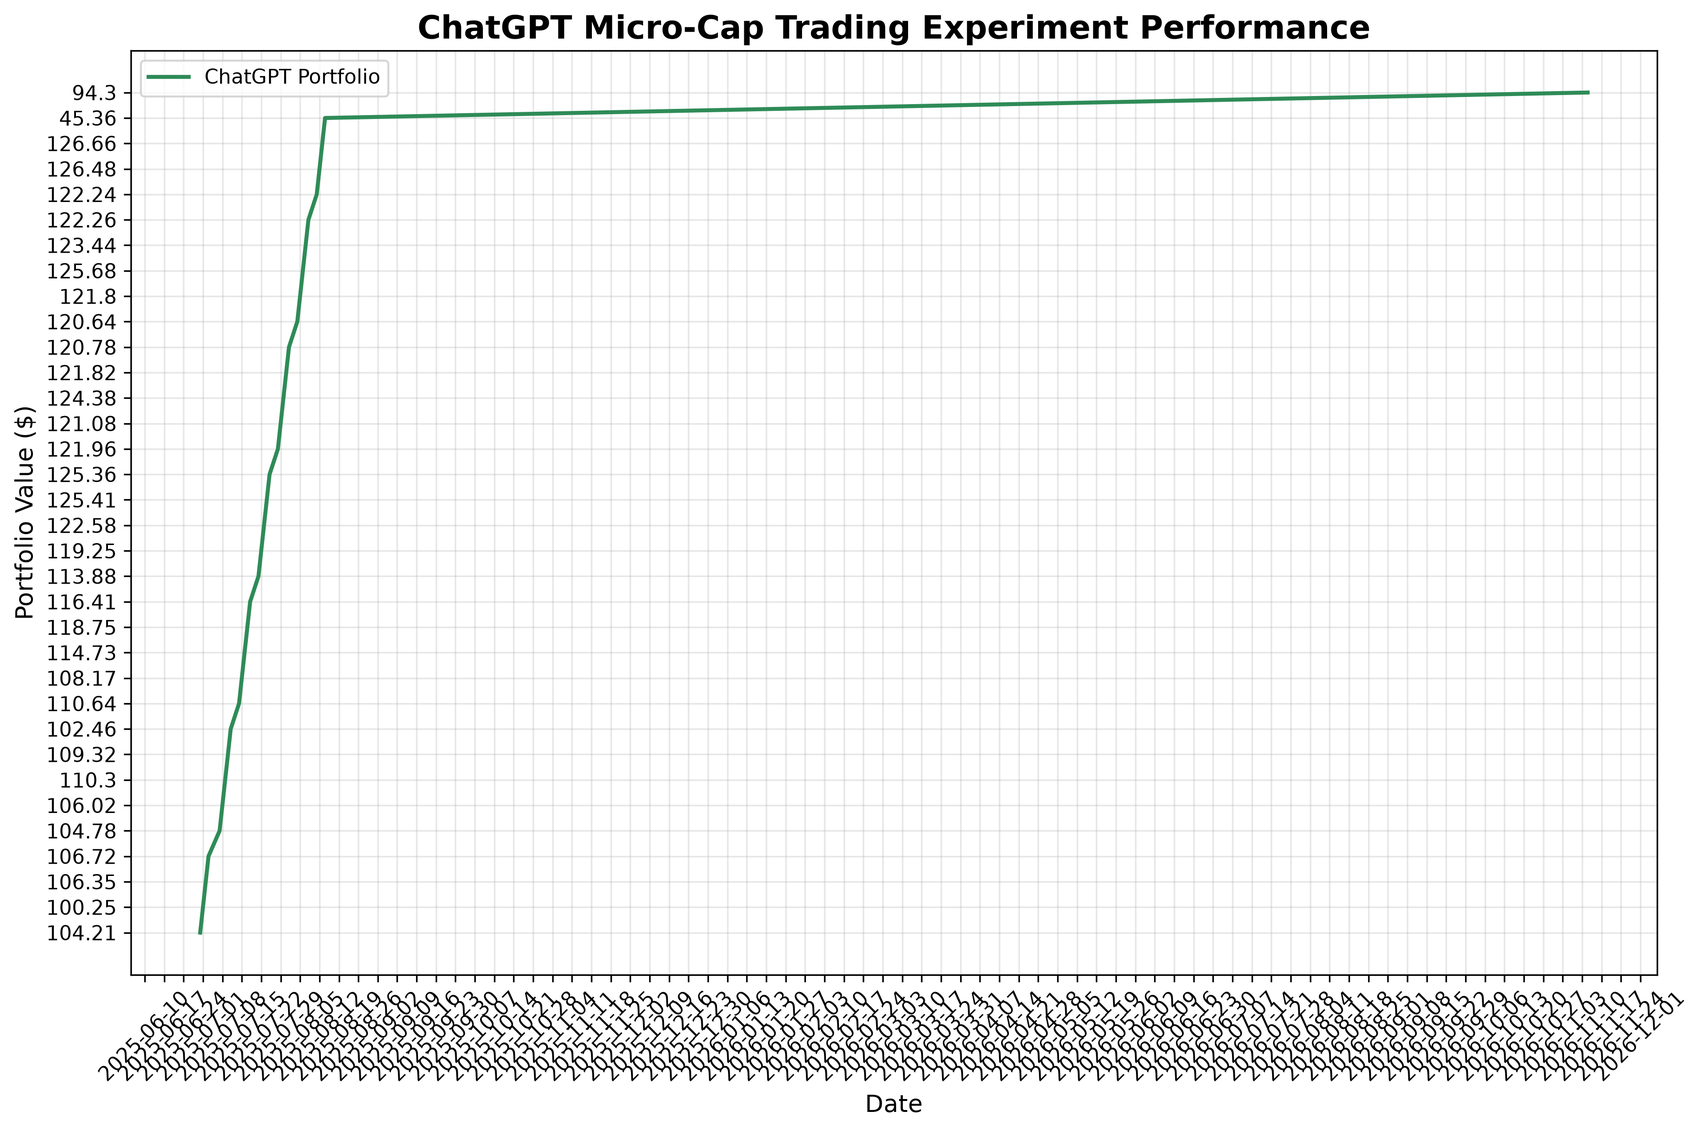
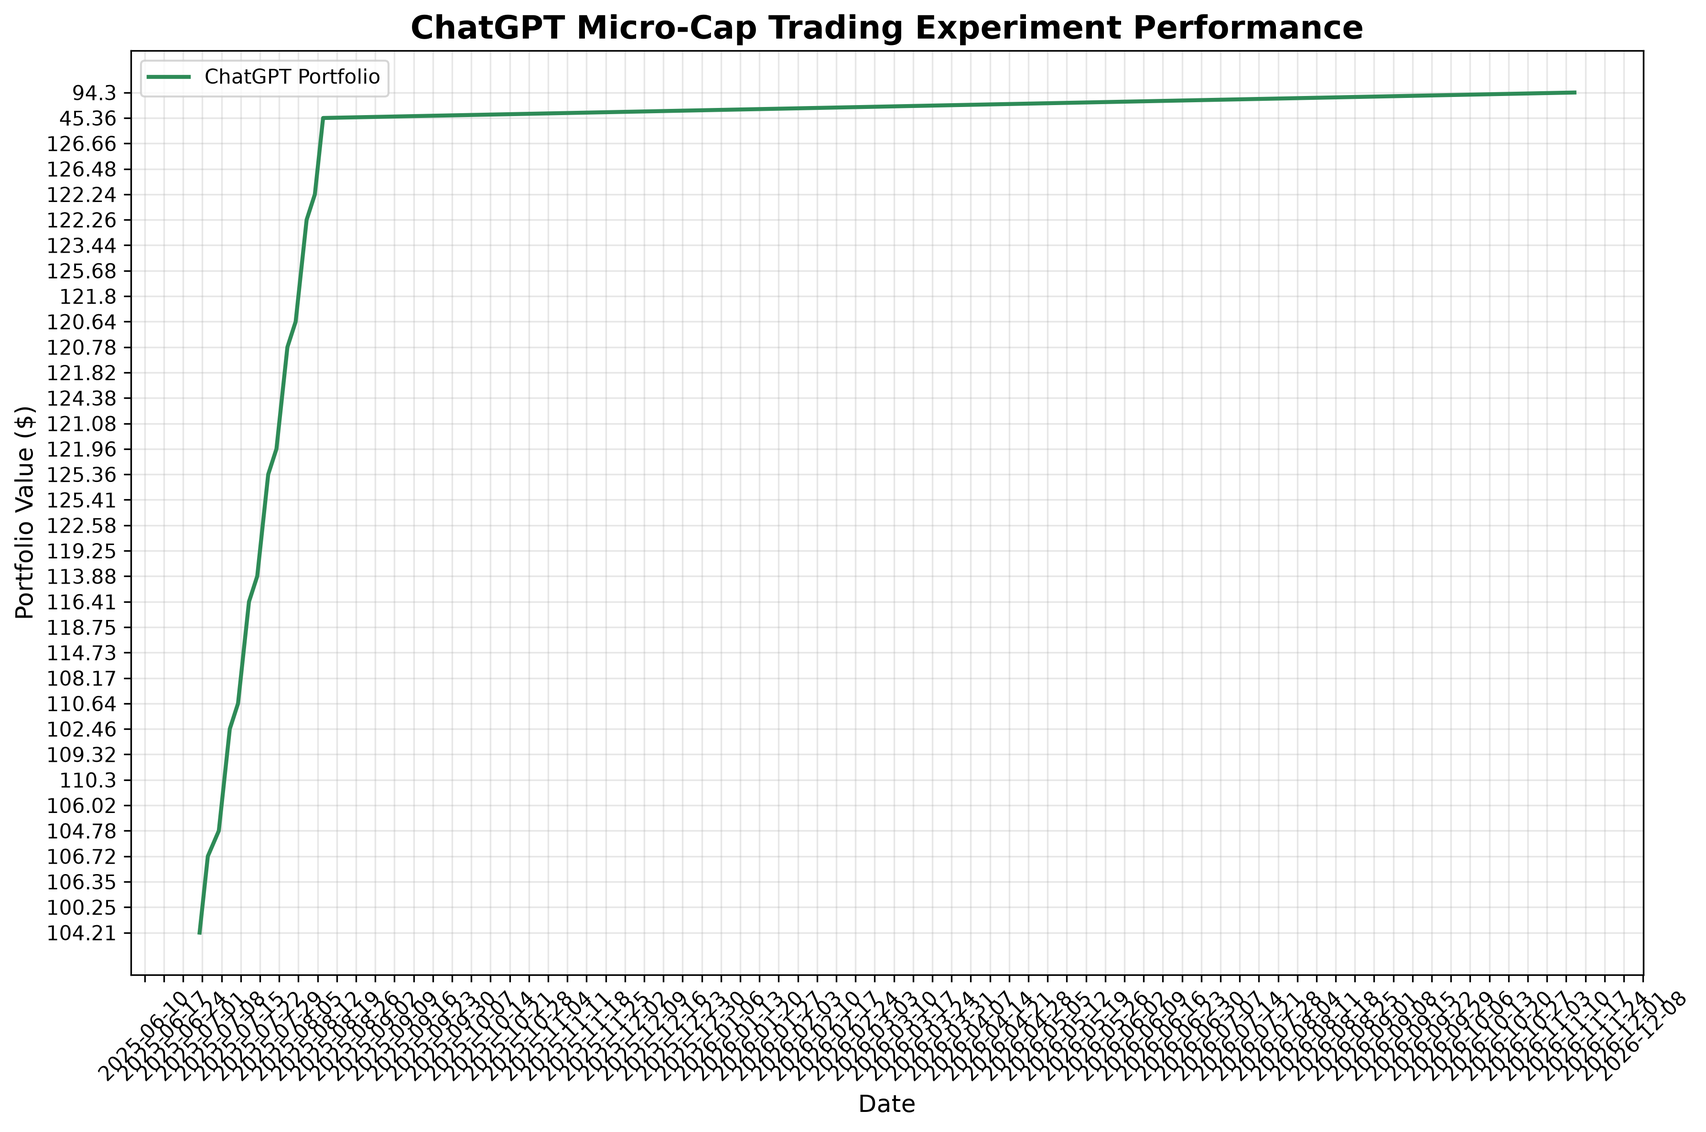
deploy: e15cad030d70fb3fbb51f9df6e22fa70c2f175c0

Changed region(s): [[0.0623, 0.8743, 0.9964, 0.9992], [0.218, 0.0, 0.8095, 0.0624], [0.1557, 0.1873, 0.1868, 0.2498]]

diff --git a/index.html b/index.html
@@ -105,7 +105,7 @@
                 <div class="stat-label">Total Trades</div>
             </div>
             <div class="stat-card">
-                <div class="stat-value" id="last-updated">2026-11-12</div>
+                <div class="stat-value" id="last-updated">2026-11-13</div>
                 <div class="stat-label">Last Updated</div>
             </div>
         </div>
@@ -160,8 +160,8 @@
     
     <script>
         // Portfolio data
-        const portfolioData = JSON.parse("[{&quot;Date&quot;: &quot;2025-08-11&quot;, &quot;Ticker&quot;: &quot;ABEO&quot;, &quot;Shares&quot;: 4.0, &quot;Buy Price&quot;: 5.77, &quot;Cost Basis&quot;: 23.08, &quot;Stop Loss&quot;: 4.9, &quot;Current Price&quot;: 6.28, &quot;Total Value&quot;: 25.12, &quot;PnL&quot;: 2.04, &quot;Action&quot;: &quot;HOLD&quot;, &quot;Cash Balance&quot;: NaN, &quot;Total Equity&quot;: NaN}, {&quot;Date&quot;: &quot;2025-08-11&quot;, &quot;Ticker&quot;: &quot;ACTU&quot;, &quot;Shares&quot;: 6.0, &quot;Buy Price&quot;: 5.75, &quot;Cost Basis&quot;: 34.5, &quot;Stop Loss&quot;: 4.89, &quot;Current Price&quot;: 8.01, &quot;Total Value&quot;: 48.06, &quot;PnL&quot;: 13.56, &quot;Action&quot;: &quot;HOLD&quot;, &quot;Cash Balance&quot;: NaN, &quot;Total Equity&quot;: NaN}, {&quot;Date&quot;: &quot;2025-08-11&quot;, &quot;Ticker&quot;: &quot;ESPR&quot;, &quot;Shares&quot;: 2.0, &quot;Buy Price&quot;: 1.91, &quot;Cost Basis&quot;: 3.82, &quot;Stop Loss&quot;: 1.6, &quot;Current Price&quot;: 1.85, &quot;Total Value&quot;: 3.7, &quot;PnL&quot;: -0.12, &quot;Action&quot;: &quot;HOLD&quot;, &quot;Cash Balance&quot;: NaN, &quot;Total Equity&quot;: NaN}, {&quot;Date&quot;: &quot;2025-08-11&quot;, &quot;Ticker&quot;: &quot;TOTAL&quot;, &quot;Shares&quot;: NaN, &quot;Buy Price&quot;: NaN, &quot;Cost Basis&quot;: NaN, &quot;Stop Loss&quot;: NaN, &quot;Current Price&quot;: NaN, &quot;Total Value&quot;: 76.88, &quot;PnL&quot;: 15.48, &quot;Action&quot;: NaN, &quot;Cash Balance&quot;: 45.36, &quot;Total Equity&quot;: &quot;122.24&quot;}, {&quot;Date&quot;: &quot;2025-08-12&quot;, &quot;Ticker&quot;: &quot;ABEO&quot;, &quot;Shares&quot;: 4.0, &quot;Buy Price&quot;: 5.77, &quot;Cost Basis&quot;: 23.08, &quot;Stop Loss&quot;: 4.9, &quot;Current Price&quot;: 6.38, &quot;Total Value&quot;: 25.52, &quot;PnL&quot;: 2.44, &quot;Action&quot;: &quot;HOLD&quot;, &quot;Cash Balance&quot;: NaN, &quot;Total Equity&quot;: NaN}, {&quot;Date&quot;: &quot;2025-08-12&quot;, &quot;Ticker&quot;: &quot;ACTU&quot;, &quot;Shares&quot;: 6.0, &quot;Buy Price&quot;: 5.75, &quot;Cost Basis&quot;: 34.5, &quot;Stop Loss&quot;: 4.89, &quot;Current Price&quot;: 8.67, &quot;Total Value&quot;: 52.02, &quot;PnL&quot;: 17.52, &quot;Action&quot;: &quot;HOLD&quot;, &quot;Cash Balance&quot;: NaN, &quot;Total Equity&quot;: NaN}, {&quot;Date&quot;: &quot;2025-08-12&quot;, &quot;Ticker&quot;: &quot;ESPR&quot;, &quot;Shares&quot;: 2.0, &quot;Buy Price&quot;: 1.91, &quot;Cost Basis&quot;: 3.82, &quot;Stop Loss&quot;: 1.6, &quot;Current Price&quot;: 1.79, &quot;Total Value&quot;: 3.58, &quot;PnL&quot;: -0.24, &quot;Action&quot;: &quot;HOLD&quot;, &quot;Cash Balance&quot;: NaN, &quot;Total Equity&quot;: NaN}, {&quot;Date&quot;: &quot;2025-08-12&quot;, &quot;Ticker&quot;: &quot;TOTAL&quot;, &quot;Shares&quot;: NaN, &quot;Buy Price&quot;: NaN, &quot;Cost Basis&quot;: NaN, &quot;Stop Loss&quot;: NaN, &quot;Current Price&quot;: NaN, &quot;Total Value&quot;: 81.12, &quot;PnL&quot;: 19.72, &quot;Action&quot;: NaN, &quot;Cash Balance&quot;: 45.36, &quot;Total Equity&quot;: &quot;126.48&quot;}, {&quot;Date&quot;: &quot;2025-08-13&quot;, &quot;Ticker&quot;: &quot;ABEO&quot;, &quot;Shares&quot;: 4.0, &quot;Buy Price&quot;: 5.77, &quot;Cost Basis&quot;: 23.08, &quot;Stop Loss&quot;: 4.9, &quot;Current Price&quot;: 6.56, &quot;Total Value&quot;: 26.24, &quot;PnL&quot;: 3.16, &quot;Action&quot;: &quot;HOLD&quot;, &quot;Cash Balance&quot;: NaN, &quot;Total Equity&quot;: NaN}, {&quot;Date&quot;: &quot;2025-08-13&quot;, &quot;Ticker&quot;: &quot;ACTU&quot;, &quot;Shares&quot;: 6.0, &quot;Buy Price&quot;: 5.75, &quot;Cost Basis&quot;: 34.5, &quot;Stop Loss&quot;: 4.89, &quot;Current Price&quot;: 8.53, &quot;Total Value&quot;: 51.18, &quot;PnL&quot;: 16.68, &quot;Action&quot;: &quot;HOLD&quot;, &quot;Cash Balance&quot;: NaN, &quot;Total Equity&quot;: NaN}, {&quot;Date&quot;: &quot;2025-08-13&quot;, &quot;Ticker&quot;: &quot;ESPR&quot;, &quot;Shares&quot;: 2.0, &quot;Buy Price&quot;: 1.91, &quot;Cost Basis&quot;: 3.82, &quot;Stop Loss&quot;: 1.6, &quot;Current Price&quot;: 1.94, &quot;Total Value&quot;: 3.88, &quot;PnL&quot;: 0.06, &quot;Action&quot;: &quot;HOLD&quot;, &quot;Cash Balance&quot;: NaN, &quot;Total Equity&quot;: NaN}, {&quot;Date&quot;: &quot;2025-08-13&quot;, &quot;Ticker&quot;: &quot;TOTAL&quot;, &quot;Shares&quot;: NaN, &quot;Buy Price&quot;: NaN, &quot;Cost Basis&quot;: NaN, &quot;Stop Loss&quot;: NaN, &quot;Current Price&quot;: NaN, &quot;Total Value&quot;: 81.3, &quot;PnL&quot;: 19.9, &quot;Action&quot;: NaN, &quot;Cash Balance&quot;: 45.36, &quot;Total Equity&quot;: &quot;126.66&quot;}, {&quot;Date&quot;: &quot;2025-08-14&quot;, &quot;Ticker&quot;: &quot;ABEO&quot;, &quot;Shares&quot;: 4.0, &quot;Buy Price&quot;: 5.77, &quot;Cost Basis&quot;: 23.08, &quot;Stop Loss&quot;: 4.9, &quot;Current Price&quot;: NaN, &quot;Total Value&quot;: NaN, &quot;PnL&quot;: NaN, &quot;Action&quot;: &quot;NO DATA&quot;, &quot;Cash Balance&quot;: NaN, &quot;Total Equity&quot;: NaN}, {&quot;Date&quot;: &quot;2025-08-14&quot;, &quot;Ticker&quot;: &quot;ACTU&quot;, &quot;Shares&quot;: 6.0, &quot;Buy Price&quot;: 5.75, &quot;Cost Basis&quot;: 34.5, &quot;Stop Loss&quot;: 4.89, &quot;Current Price&quot;: NaN, &quot;Total Value&quot;: NaN, &quot;PnL&quot;: NaN, &quot;Action&quot;: &quot;NO DATA&quot;, &quot;Cash Balance&quot;: NaN, &quot;Total Equity&quot;: NaN}, {&quot;Date&quot;: &quot;2025-08-14&quot;, &quot;Ticker&quot;: &quot;ESPR&quot;, &quot;Shares&quot;: 2.0, &quot;Buy Price&quot;: 1.91, &quot;Cost Basis&quot;: 3.82, &quot;Stop Loss&quot;: 1.6, &quot;Current Price&quot;: NaN, &quot;Total Value&quot;: NaN, &quot;PnL&quot;: NaN, &quot;Action&quot;: &quot;NO DATA&quot;, &quot;Cash Balance&quot;: NaN, &quot;Total Equity&quot;: NaN}, {&quot;Date&quot;: &quot;2025-08-14&quot;, &quot;Ticker&quot;: &quot;TOTAL&quot;, &quot;Shares&quot;: NaN, &quot;Buy Price&quot;: NaN, &quot;Cost Basis&quot;: NaN, &quot;Stop Loss&quot;: NaN, &quot;Current Price&quot;: NaN, &quot;Total Value&quot;: 0.0, &quot;PnL&quot;: 0.0, &quot;Action&quot;: NaN, &quot;Cash Balance&quot;: 45.36, &quot;Total Equity&quot;: &quot;45.36&quot;}, {&quot;Date&quot;: &quot;2026-11-12&quot;, &quot;Ticker&quot;: &quot;ABEO&quot;, &quot;Shares&quot;: 4.0, &quot;Buy Price&quot;: 5.77, &quot;Cost Basis&quot;: 23.08, &quot;Stop Loss&quot;: 4.9, &quot;Current Price&quot;: 4.9, &quot;Total Value&quot;: 19.6, &quot;PnL&quot;: -3.48, &quot;Action&quot;: &quot;SELL - Stop Loss Triggered&quot;, &quot;Cash Balance&quot;: NaN, &quot;Total Equity&quot;: NaN}, {&quot;Date&quot;: &quot;2026-11-12&quot;, &quot;Ticker&quot;: &quot;ACTU&quot;, &quot;Shares&quot;: 6.0, &quot;Buy Price&quot;: 5.75, &quot;Cost Basis&quot;: 34.5, &quot;Stop Loss&quot;: 4.89, &quot;Current Price&quot;: 4.89, &quot;Total Value&quot;: 29.34, &quot;PnL&quot;: -5.16, &quot;Action&quot;: &quot;SELL - Stop Loss Triggered&quot;, &quot;Cash Balance&quot;: NaN, &quot;Total Equity&quot;: NaN}, {&quot;Date&quot;: &quot;2026-11-12&quot;, &quot;Ticker&quot;: &quot;ESPR&quot;, &quot;Shares&quot;: 2.0, &quot;Buy Price&quot;: 1.91, &quot;Cost Basis&quot;: 3.82, &quot;Stop Loss&quot;: 1.6, &quot;Current Price&quot;: NaN, &quot;Total Value&quot;: NaN, &quot;PnL&quot;: NaN, &quot;Action&quot;: &quot;NO DATA&quot;, &quot;Cash Balance&quot;: NaN, &quot;Total Equity&quot;: NaN}, {&quot;Date&quot;: &quot;2026-11-12&quot;, &quot;Ticker&quot;: &quot;TOTAL&quot;, &quot;Shares&quot;: NaN, &quot;Buy Price&quot;: NaN, &quot;Cost Basis&quot;: NaN, &quot;Stop Loss&quot;: NaN, &quot;Current Price&quot;: NaN, &quot;Total Value&quot;: 0.0, &quot;PnL&quot;: 0.0, &quot;Action&quot;: NaN, &quot;Cash Balance&quot;: 94.3, &quot;Total Equity&quot;: &quot;94.3&quot;}]");
-        const tradeData = JSON.parse("[{&quot;Date&quot;: &quot;2025-07-21&quot;, &quot;Ticker&quot;: &quot;CADL&quot;, &quot;Shares Bought&quot;: NaN, &quot;Buy Price&quot;: NaN, &quot;Cost Basis&quot;: 25.2, &quot;PnL&quot;: 8.5, &quot;Reason&quot;: &quot;MANUAL SELL - GAIN CAPITAL FOR ACTU&quot;, &quot;Shares Sold&quot;: 5.0, &quot;Sell Price&quot;: 6.59}, {&quot;Date&quot;: &quot;2025-07-21&quot;, &quot;Ticker&quot;: &quot;ACTU&quot;, &quot;Shares Bought&quot;: 6.0, &quot;Buy Price&quot;: 5.75, &quot;Cost Basis&quot;: 34.5, &quot;PnL&quot;: 0.0, &quot;Reason&quot;: &quot;MANUAL BUY - New position&quot;, &quot;Shares Sold&quot;: NaN, &quot;Sell Price&quot;: NaN}, {&quot;Date&quot;: &quot;2025-07-28&quot;, &quot;Ticker&quot;: &quot;IINN&quot;, &quot;Shares Bought&quot;: NaN, &quot;Buy Price&quot;: NaN, &quot;Cost Basis&quot;: 9.0, &quot;PnL&quot;: -0.5400000000000009, &quot;Reason&quot;: &quot;MANUAL SELL - POSITION REDUCTION&quot;, &quot;Shares Sold&quot;: 6.0, &quot;Sell Price&quot;: 1.41}, {&quot;Date&quot;: &quot;2025-07-29&quot;, &quot;Ticker&quot;: &quot;AZTR&quot;, &quot;Shares Bought&quot;: NaN, &quot;Buy Price&quot;: NaN, &quot;Cost Basis&quot;: 13.75, &quot;PnL&quot;: -2.75, &quot;Reason&quot;: &quot;MANUAL SELL - DILUTION RISK&quot;, &quot;Shares Sold&quot;: 55.0, &quot;Sell Price&quot;: 0.2}, {&quot;Date&quot;: &quot;2025-08-01&quot;, &quot;Ticker&quot;: &quot;IINN&quot;, &quot;Shares Bought&quot;: 2.0, &quot;Buy Price&quot;: 1.74, &quot;Cost Basis&quot;: 3.48, &quot;PnL&quot;: 0.0, &quot;Reason&quot;: &quot;MANUAL BUY - New position&quot;, &quot;Shares Sold&quot;: NaN, &quot;Sell Price&quot;: NaN}, {&quot;Date&quot;: &quot;2025-08-01&quot;, &quot;Ticker&quot;: &quot;ABEO&quot;, &quot;Shares Bought&quot;: NaN, &quot;Buy Price&quot;: NaN, &quot;Cost Basis&quot;: 11.54, &quot;PnL&quot;: 1.200000000000001, &quot;Reason&quot;: &quot;MANUAL SELL - TRIM AFTER SUPPORT LOSS&quot;, &quot;Shares Sold&quot;: 2.0, &quot;Sell Price&quot;: 6.37}, {&quot;Date&quot;: &quot;2025-08-07&quot;, &quot;Ticker&quot;: &quot;ESPR&quot;, &quot;Shares Bought&quot;: 2.0, &quot;Buy Price&quot;: 1.91, &quot;Cost Basis&quot;: 3.82, &quot;PnL&quot;: 0.0, &quot;Reason&quot;: &quot;MANUAL BUY - New position&quot;, &quot;Shares Sold&quot;: NaN, &quot;Sell Price&quot;: NaN}, {&quot;Date&quot;: &quot;2025-08-08&quot;, &quot;Ticker&quot;: &quot;IINN&quot;, &quot;Shares Bought&quot;: NaN, &quot;Buy Price&quot;: NaN, &quot;Cost Basis&quot;: 1.5, &quot;PnL&quot;: -6.4, &quot;Reason&quot;: &quot;AUTOMATED SELL - STOPLOSS TRIGGERED&quot;, &quot;Shares Sold&quot;: 16.0, &quot;Sell Price&quot;: 1.1}, {&quot;Date&quot;: &quot;2026-11-12&quot;, &quot;Ticker&quot;: &quot;ABEO&quot;, &quot;Shares Bought&quot;: NaN, &quot;Buy Price&quot;: NaN, &quot;Cost Basis&quot;: 5.77, &quot;PnL&quot;: -3.48, &quot;Reason&quot;: &quot;AUTOMATED SELL - STOPLOSS TRIGGERED&quot;, &quot;Shares Sold&quot;: 4.0, &quot;Sell Price&quot;: 4.9}, {&quot;Date&quot;: &quot;2026-11-12&quot;, &quot;Ticker&quot;: &quot;ACTU&quot;, &quot;Shares Bought&quot;: NaN, &quot;Buy Price&quot;: NaN, &quot;Cost Basis&quot;: 5.75, &quot;PnL&quot;: -5.16, &quot;Reason&quot;: &quot;AUTOMATED SELL - STOPLOSS TRIGGERED&quot;, &quot;Shares Sold&quot;: 6.0, &quot;Sell Price&quot;: 4.89}]");
+        const portfolioData = JSON.parse("[{&quot;Date&quot;: &quot;2025-08-11&quot;, &quot;Ticker&quot;: &quot;ABEO&quot;, &quot;Shares&quot;: 4.0, &quot;Buy Price&quot;: 5.77, &quot;Cost Basis&quot;: 23.08, &quot;Stop Loss&quot;: 4.9, &quot;Current Price&quot;: 6.28, &quot;Total Value&quot;: 25.12, &quot;PnL&quot;: 2.04, &quot;Action&quot;: &quot;HOLD&quot;, &quot;Cash Balance&quot;: NaN, &quot;Total Equity&quot;: NaN}, {&quot;Date&quot;: &quot;2025-08-11&quot;, &quot;Ticker&quot;: &quot;ACTU&quot;, &quot;Shares&quot;: 6.0, &quot;Buy Price&quot;: 5.75, &quot;Cost Basis&quot;: 34.5, &quot;Stop Loss&quot;: 4.89, &quot;Current Price&quot;: 8.01, &quot;Total Value&quot;: 48.06, &quot;PnL&quot;: 13.56, &quot;Action&quot;: &quot;HOLD&quot;, &quot;Cash Balance&quot;: NaN, &quot;Total Equity&quot;: NaN}, {&quot;Date&quot;: &quot;2025-08-11&quot;, &quot;Ticker&quot;: &quot;ESPR&quot;, &quot;Shares&quot;: 2.0, &quot;Buy Price&quot;: 1.91, &quot;Cost Basis&quot;: 3.82, &quot;Stop Loss&quot;: 1.6, &quot;Current Price&quot;: 1.85, &quot;Total Value&quot;: 3.7, &quot;PnL&quot;: -0.12, &quot;Action&quot;: &quot;HOLD&quot;, &quot;Cash Balance&quot;: NaN, &quot;Total Equity&quot;: NaN}, {&quot;Date&quot;: &quot;2025-08-11&quot;, &quot;Ticker&quot;: &quot;TOTAL&quot;, &quot;Shares&quot;: NaN, &quot;Buy Price&quot;: NaN, &quot;Cost Basis&quot;: NaN, &quot;Stop Loss&quot;: NaN, &quot;Current Price&quot;: NaN, &quot;Total Value&quot;: 76.88, &quot;PnL&quot;: 15.48, &quot;Action&quot;: NaN, &quot;Cash Balance&quot;: 45.36, &quot;Total Equity&quot;: &quot;122.24&quot;}, {&quot;Date&quot;: &quot;2025-08-12&quot;, &quot;Ticker&quot;: &quot;ABEO&quot;, &quot;Shares&quot;: 4.0, &quot;Buy Price&quot;: 5.77, &quot;Cost Basis&quot;: 23.08, &quot;Stop Loss&quot;: 4.9, &quot;Current Price&quot;: 6.38, &quot;Total Value&quot;: 25.52, &quot;PnL&quot;: 2.44, &quot;Action&quot;: &quot;HOLD&quot;, &quot;Cash Balance&quot;: NaN, &quot;Total Equity&quot;: NaN}, {&quot;Date&quot;: &quot;2025-08-12&quot;, &quot;Ticker&quot;: &quot;ACTU&quot;, &quot;Shares&quot;: 6.0, &quot;Buy Price&quot;: 5.75, &quot;Cost Basis&quot;: 34.5, &quot;Stop Loss&quot;: 4.89, &quot;Current Price&quot;: 8.67, &quot;Total Value&quot;: 52.02, &quot;PnL&quot;: 17.52, &quot;Action&quot;: &quot;HOLD&quot;, &quot;Cash Balance&quot;: NaN, &quot;Total Equity&quot;: NaN}, {&quot;Date&quot;: &quot;2025-08-12&quot;, &quot;Ticker&quot;: &quot;ESPR&quot;, &quot;Shares&quot;: 2.0, &quot;Buy Price&quot;: 1.91, &quot;Cost Basis&quot;: 3.82, &quot;Stop Loss&quot;: 1.6, &quot;Current Price&quot;: 1.79, &quot;Total Value&quot;: 3.58, &quot;PnL&quot;: -0.24, &quot;Action&quot;: &quot;HOLD&quot;, &quot;Cash Balance&quot;: NaN, &quot;Total Equity&quot;: NaN}, {&quot;Date&quot;: &quot;2025-08-12&quot;, &quot;Ticker&quot;: &quot;TOTAL&quot;, &quot;Shares&quot;: NaN, &quot;Buy Price&quot;: NaN, &quot;Cost Basis&quot;: NaN, &quot;Stop Loss&quot;: NaN, &quot;Current Price&quot;: NaN, &quot;Total Value&quot;: 81.12, &quot;PnL&quot;: 19.72, &quot;Action&quot;: NaN, &quot;Cash Balance&quot;: 45.36, &quot;Total Equity&quot;: &quot;126.48&quot;}, {&quot;Date&quot;: &quot;2025-08-13&quot;, &quot;Ticker&quot;: &quot;ABEO&quot;, &quot;Shares&quot;: 4.0, &quot;Buy Price&quot;: 5.77, &quot;Cost Basis&quot;: 23.08, &quot;Stop Loss&quot;: 4.9, &quot;Current Price&quot;: 6.56, &quot;Total Value&quot;: 26.24, &quot;PnL&quot;: 3.16, &quot;Action&quot;: &quot;HOLD&quot;, &quot;Cash Balance&quot;: NaN, &quot;Total Equity&quot;: NaN}, {&quot;Date&quot;: &quot;2025-08-13&quot;, &quot;Ticker&quot;: &quot;ACTU&quot;, &quot;Shares&quot;: 6.0, &quot;Buy Price&quot;: 5.75, &quot;Cost Basis&quot;: 34.5, &quot;Stop Loss&quot;: 4.89, &quot;Current Price&quot;: 8.53, &quot;Total Value&quot;: 51.18, &quot;PnL&quot;: 16.68, &quot;Action&quot;: &quot;HOLD&quot;, &quot;Cash Balance&quot;: NaN, &quot;Total Equity&quot;: NaN}, {&quot;Date&quot;: &quot;2025-08-13&quot;, &quot;Ticker&quot;: &quot;ESPR&quot;, &quot;Shares&quot;: 2.0, &quot;Buy Price&quot;: 1.91, &quot;Cost Basis&quot;: 3.82, &quot;Stop Loss&quot;: 1.6, &quot;Current Price&quot;: 1.94, &quot;Total Value&quot;: 3.88, &quot;PnL&quot;: 0.06, &quot;Action&quot;: &quot;HOLD&quot;, &quot;Cash Balance&quot;: NaN, &quot;Total Equity&quot;: NaN}, {&quot;Date&quot;: &quot;2025-08-13&quot;, &quot;Ticker&quot;: &quot;TOTAL&quot;, &quot;Shares&quot;: NaN, &quot;Buy Price&quot;: NaN, &quot;Cost Basis&quot;: NaN, &quot;Stop Loss&quot;: NaN, &quot;Current Price&quot;: NaN, &quot;Total Value&quot;: 81.3, &quot;PnL&quot;: 19.9, &quot;Action&quot;: NaN, &quot;Cash Balance&quot;: 45.36, &quot;Total Equity&quot;: &quot;126.66&quot;}, {&quot;Date&quot;: &quot;2025-08-14&quot;, &quot;Ticker&quot;: &quot;ABEO&quot;, &quot;Shares&quot;: 4.0, &quot;Buy Price&quot;: 5.77, &quot;Cost Basis&quot;: 23.08, &quot;Stop Loss&quot;: 4.9, &quot;Current Price&quot;: NaN, &quot;Total Value&quot;: NaN, &quot;PnL&quot;: NaN, &quot;Action&quot;: &quot;NO DATA&quot;, &quot;Cash Balance&quot;: NaN, &quot;Total Equity&quot;: NaN}, {&quot;Date&quot;: &quot;2025-08-14&quot;, &quot;Ticker&quot;: &quot;ACTU&quot;, &quot;Shares&quot;: 6.0, &quot;Buy Price&quot;: 5.75, &quot;Cost Basis&quot;: 34.5, &quot;Stop Loss&quot;: 4.89, &quot;Current Price&quot;: NaN, &quot;Total Value&quot;: NaN, &quot;PnL&quot;: NaN, &quot;Action&quot;: &quot;NO DATA&quot;, &quot;Cash Balance&quot;: NaN, &quot;Total Equity&quot;: NaN}, {&quot;Date&quot;: &quot;2025-08-14&quot;, &quot;Ticker&quot;: &quot;ESPR&quot;, &quot;Shares&quot;: 2.0, &quot;Buy Price&quot;: 1.91, &quot;Cost Basis&quot;: 3.82, &quot;Stop Loss&quot;: 1.6, &quot;Current Price&quot;: NaN, &quot;Total Value&quot;: NaN, &quot;PnL&quot;: NaN, &quot;Action&quot;: &quot;NO DATA&quot;, &quot;Cash Balance&quot;: NaN, &quot;Total Equity&quot;: NaN}, {&quot;Date&quot;: &quot;2025-08-14&quot;, &quot;Ticker&quot;: &quot;TOTAL&quot;, &quot;Shares&quot;: NaN, &quot;Buy Price&quot;: NaN, &quot;Cost Basis&quot;: NaN, &quot;Stop Loss&quot;: NaN, &quot;Current Price&quot;: NaN, &quot;Total Value&quot;: 0.0, &quot;PnL&quot;: 0.0, &quot;Action&quot;: NaN, &quot;Cash Balance&quot;: 45.36, &quot;Total Equity&quot;: &quot;45.36&quot;}, {&quot;Date&quot;: &quot;2026-11-13&quot;, &quot;Ticker&quot;: &quot;ABEO&quot;, &quot;Shares&quot;: 4.0, &quot;Buy Price&quot;: 5.77, &quot;Cost Basis&quot;: 23.08, &quot;Stop Loss&quot;: 4.9, &quot;Current Price&quot;: 4.9, &quot;Total Value&quot;: 19.6, &quot;PnL&quot;: -3.48, &quot;Action&quot;: &quot;SELL - Stop Loss Triggered&quot;, &quot;Cash Balance&quot;: NaN, &quot;Total Equity&quot;: NaN}, {&quot;Date&quot;: &quot;2026-11-13&quot;, &quot;Ticker&quot;: &quot;ACTU&quot;, &quot;Shares&quot;: 6.0, &quot;Buy Price&quot;: 5.75, &quot;Cost Basis&quot;: 34.5, &quot;Stop Loss&quot;: 4.89, &quot;Current Price&quot;: 4.89, &quot;Total Value&quot;: 29.34, &quot;PnL&quot;: -5.16, &quot;Action&quot;: &quot;SELL - Stop Loss Triggered&quot;, &quot;Cash Balance&quot;: NaN, &quot;Total Equity&quot;: NaN}, {&quot;Date&quot;: &quot;2026-11-13&quot;, &quot;Ticker&quot;: &quot;ESPR&quot;, &quot;Shares&quot;: 2.0, &quot;Buy Price&quot;: 1.91, &quot;Cost Basis&quot;: 3.82, &quot;Stop Loss&quot;: 1.6, &quot;Current Price&quot;: NaN, &quot;Total Value&quot;: NaN, &quot;PnL&quot;: NaN, &quot;Action&quot;: &quot;NO DATA&quot;, &quot;Cash Balance&quot;: NaN, &quot;Total Equity&quot;: NaN}, {&quot;Date&quot;: &quot;2026-11-13&quot;, &quot;Ticker&quot;: &quot;TOTAL&quot;, &quot;Shares&quot;: NaN, &quot;Buy Price&quot;: NaN, &quot;Cost Basis&quot;: NaN, &quot;Stop Loss&quot;: NaN, &quot;Current Price&quot;: NaN, &quot;Total Value&quot;: 0.0, &quot;PnL&quot;: 0.0, &quot;Action&quot;: NaN, &quot;Cash Balance&quot;: 94.3, &quot;Total Equity&quot;: &quot;94.3&quot;}]");
+        const tradeData = JSON.parse("[{&quot;Date&quot;: &quot;2025-07-21&quot;, &quot;Ticker&quot;: &quot;CADL&quot;, &quot;Shares Bought&quot;: NaN, &quot;Buy Price&quot;: NaN, &quot;Cost Basis&quot;: 25.2, &quot;PnL&quot;: 8.5, &quot;Reason&quot;: &quot;MANUAL SELL - GAIN CAPITAL FOR ACTU&quot;, &quot;Shares Sold&quot;: 5.0, &quot;Sell Price&quot;: 6.59}, {&quot;Date&quot;: &quot;2025-07-21&quot;, &quot;Ticker&quot;: &quot;ACTU&quot;, &quot;Shares Bought&quot;: 6.0, &quot;Buy Price&quot;: 5.75, &quot;Cost Basis&quot;: 34.5, &quot;PnL&quot;: 0.0, &quot;Reason&quot;: &quot;MANUAL BUY - New position&quot;, &quot;Shares Sold&quot;: NaN, &quot;Sell Price&quot;: NaN}, {&quot;Date&quot;: &quot;2025-07-28&quot;, &quot;Ticker&quot;: &quot;IINN&quot;, &quot;Shares Bought&quot;: NaN, &quot;Buy Price&quot;: NaN, &quot;Cost Basis&quot;: 9.0, &quot;PnL&quot;: -0.5400000000000009, &quot;Reason&quot;: &quot;MANUAL SELL - POSITION REDUCTION&quot;, &quot;Shares Sold&quot;: 6.0, &quot;Sell Price&quot;: 1.41}, {&quot;Date&quot;: &quot;2025-07-29&quot;, &quot;Ticker&quot;: &quot;AZTR&quot;, &quot;Shares Bought&quot;: NaN, &quot;Buy Price&quot;: NaN, &quot;Cost Basis&quot;: 13.75, &quot;PnL&quot;: -2.75, &quot;Reason&quot;: &quot;MANUAL SELL - DILUTION RISK&quot;, &quot;Shares Sold&quot;: 55.0, &quot;Sell Price&quot;: 0.2}, {&quot;Date&quot;: &quot;2025-08-01&quot;, &quot;Ticker&quot;: &quot;IINN&quot;, &quot;Shares Bought&quot;: 2.0, &quot;Buy Price&quot;: 1.74, &quot;Cost Basis&quot;: 3.48, &quot;PnL&quot;: 0.0, &quot;Reason&quot;: &quot;MANUAL BUY - New position&quot;, &quot;Shares Sold&quot;: NaN, &quot;Sell Price&quot;: NaN}, {&quot;Date&quot;: &quot;2025-08-01&quot;, &quot;Ticker&quot;: &quot;ABEO&quot;, &quot;Shares Bought&quot;: NaN, &quot;Buy Price&quot;: NaN, &quot;Cost Basis&quot;: 11.54, &quot;PnL&quot;: 1.200000000000001, &quot;Reason&quot;: &quot;MANUAL SELL - TRIM AFTER SUPPORT LOSS&quot;, &quot;Shares Sold&quot;: 2.0, &quot;Sell Price&quot;: 6.37}, {&quot;Date&quot;: &quot;2025-08-07&quot;, &quot;Ticker&quot;: &quot;ESPR&quot;, &quot;Shares Bought&quot;: 2.0, &quot;Buy Price&quot;: 1.91, &quot;Cost Basis&quot;: 3.82, &quot;PnL&quot;: 0.0, &quot;Reason&quot;: &quot;MANUAL BUY - New position&quot;, &quot;Shares Sold&quot;: NaN, &quot;Sell Price&quot;: NaN}, {&quot;Date&quot;: &quot;2025-08-08&quot;, &quot;Ticker&quot;: &quot;IINN&quot;, &quot;Shares Bought&quot;: NaN, &quot;Buy Price&quot;: NaN, &quot;Cost Basis&quot;: 1.5, &quot;PnL&quot;: -6.4, &quot;Reason&quot;: &quot;AUTOMATED SELL - STOPLOSS TRIGGERED&quot;, &quot;Shares Sold&quot;: 16.0, &quot;Sell Price&quot;: 1.1}, {&quot;Date&quot;: &quot;2026-11-13&quot;, &quot;Ticker&quot;: &quot;ABEO&quot;, &quot;Shares Bought&quot;: NaN, &quot;Buy Price&quot;: NaN, &quot;Cost Basis&quot;: 5.77, &quot;PnL&quot;: -3.48, &quot;Reason&quot;: &quot;AUTOMATED SELL - STOPLOSS TRIGGERED&quot;, &quot;Shares Sold&quot;: 4.0, &quot;Sell Price&quot;: 4.9}, {&quot;Date&quot;: &quot;2026-11-13&quot;, &quot;Ticker&quot;: &quot;ACTU&quot;, &quot;Shares Bought&quot;: NaN, &quot;Buy Price&quot;: NaN, &quot;Cost Basis&quot;: 5.75, &quot;PnL&quot;: -5.16, &quot;Reason&quot;: &quot;AUTOMATED SELL - STOPLOSS TRIGGERED&quot;, &quot;Shares Sold&quot;: 6.0, &quot;Sell Price&quot;: 4.89}]");
         
         // Update total equity
         if (portfolioData.length > 0) {
